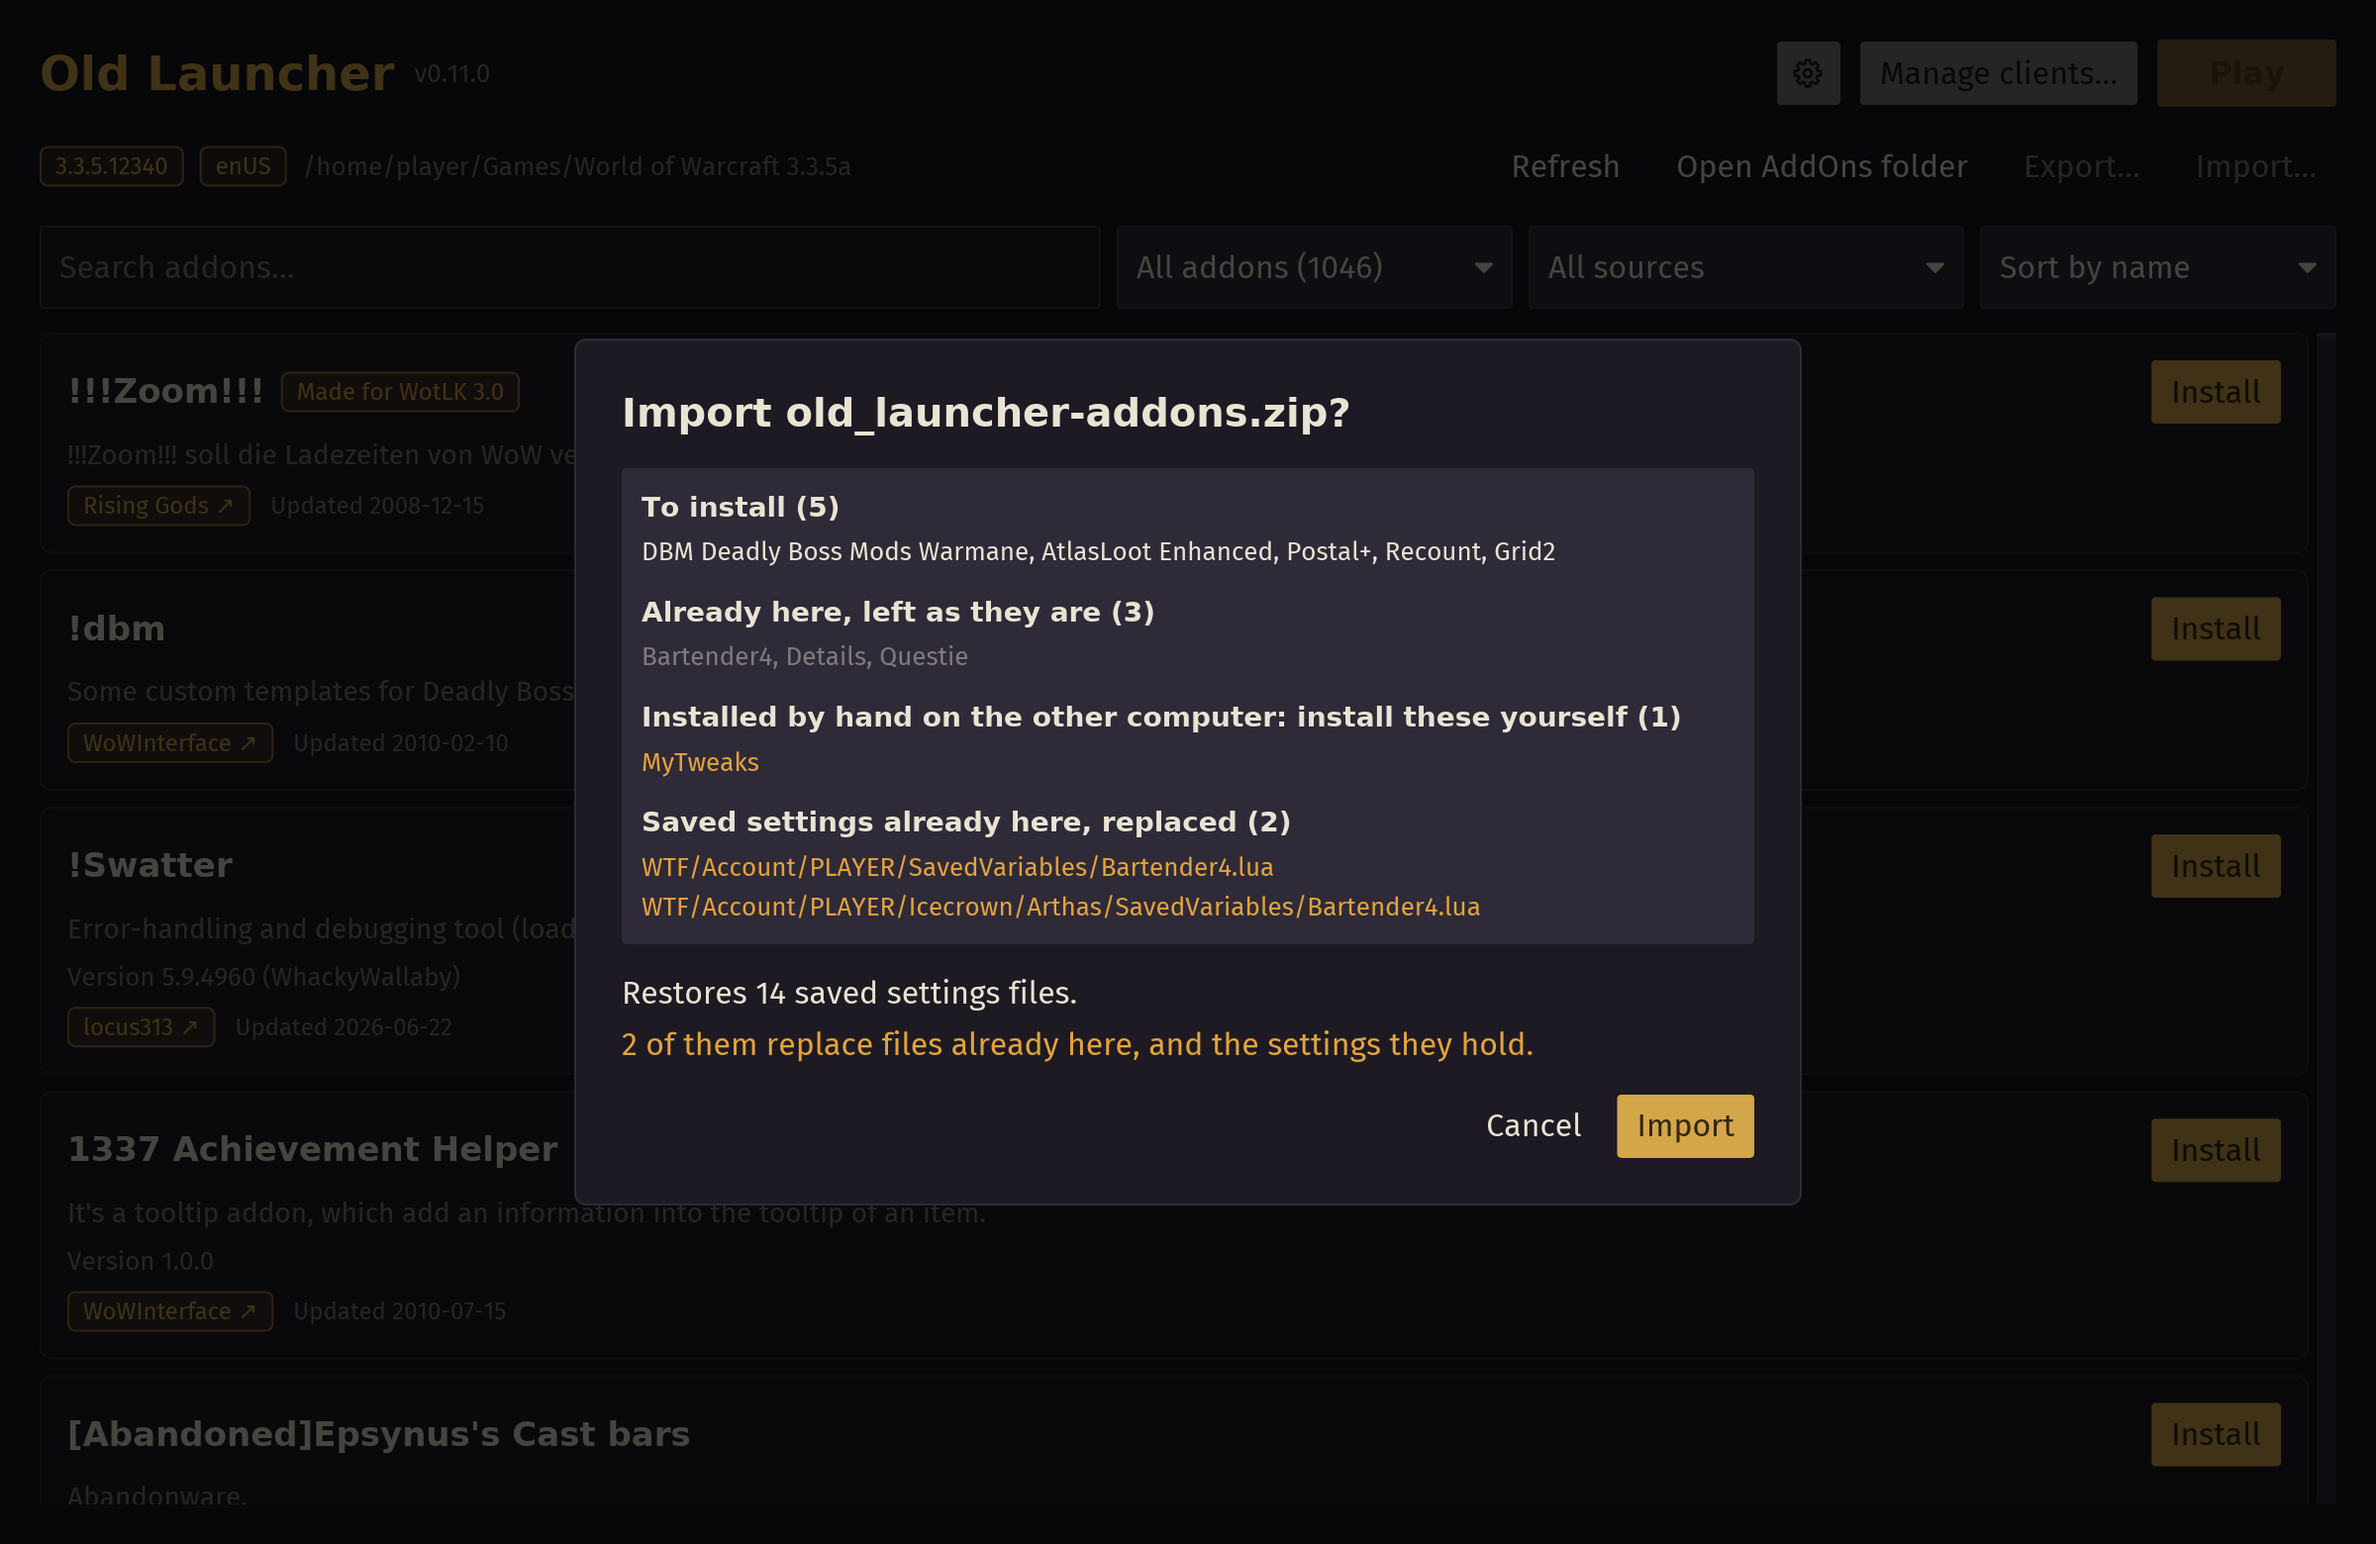
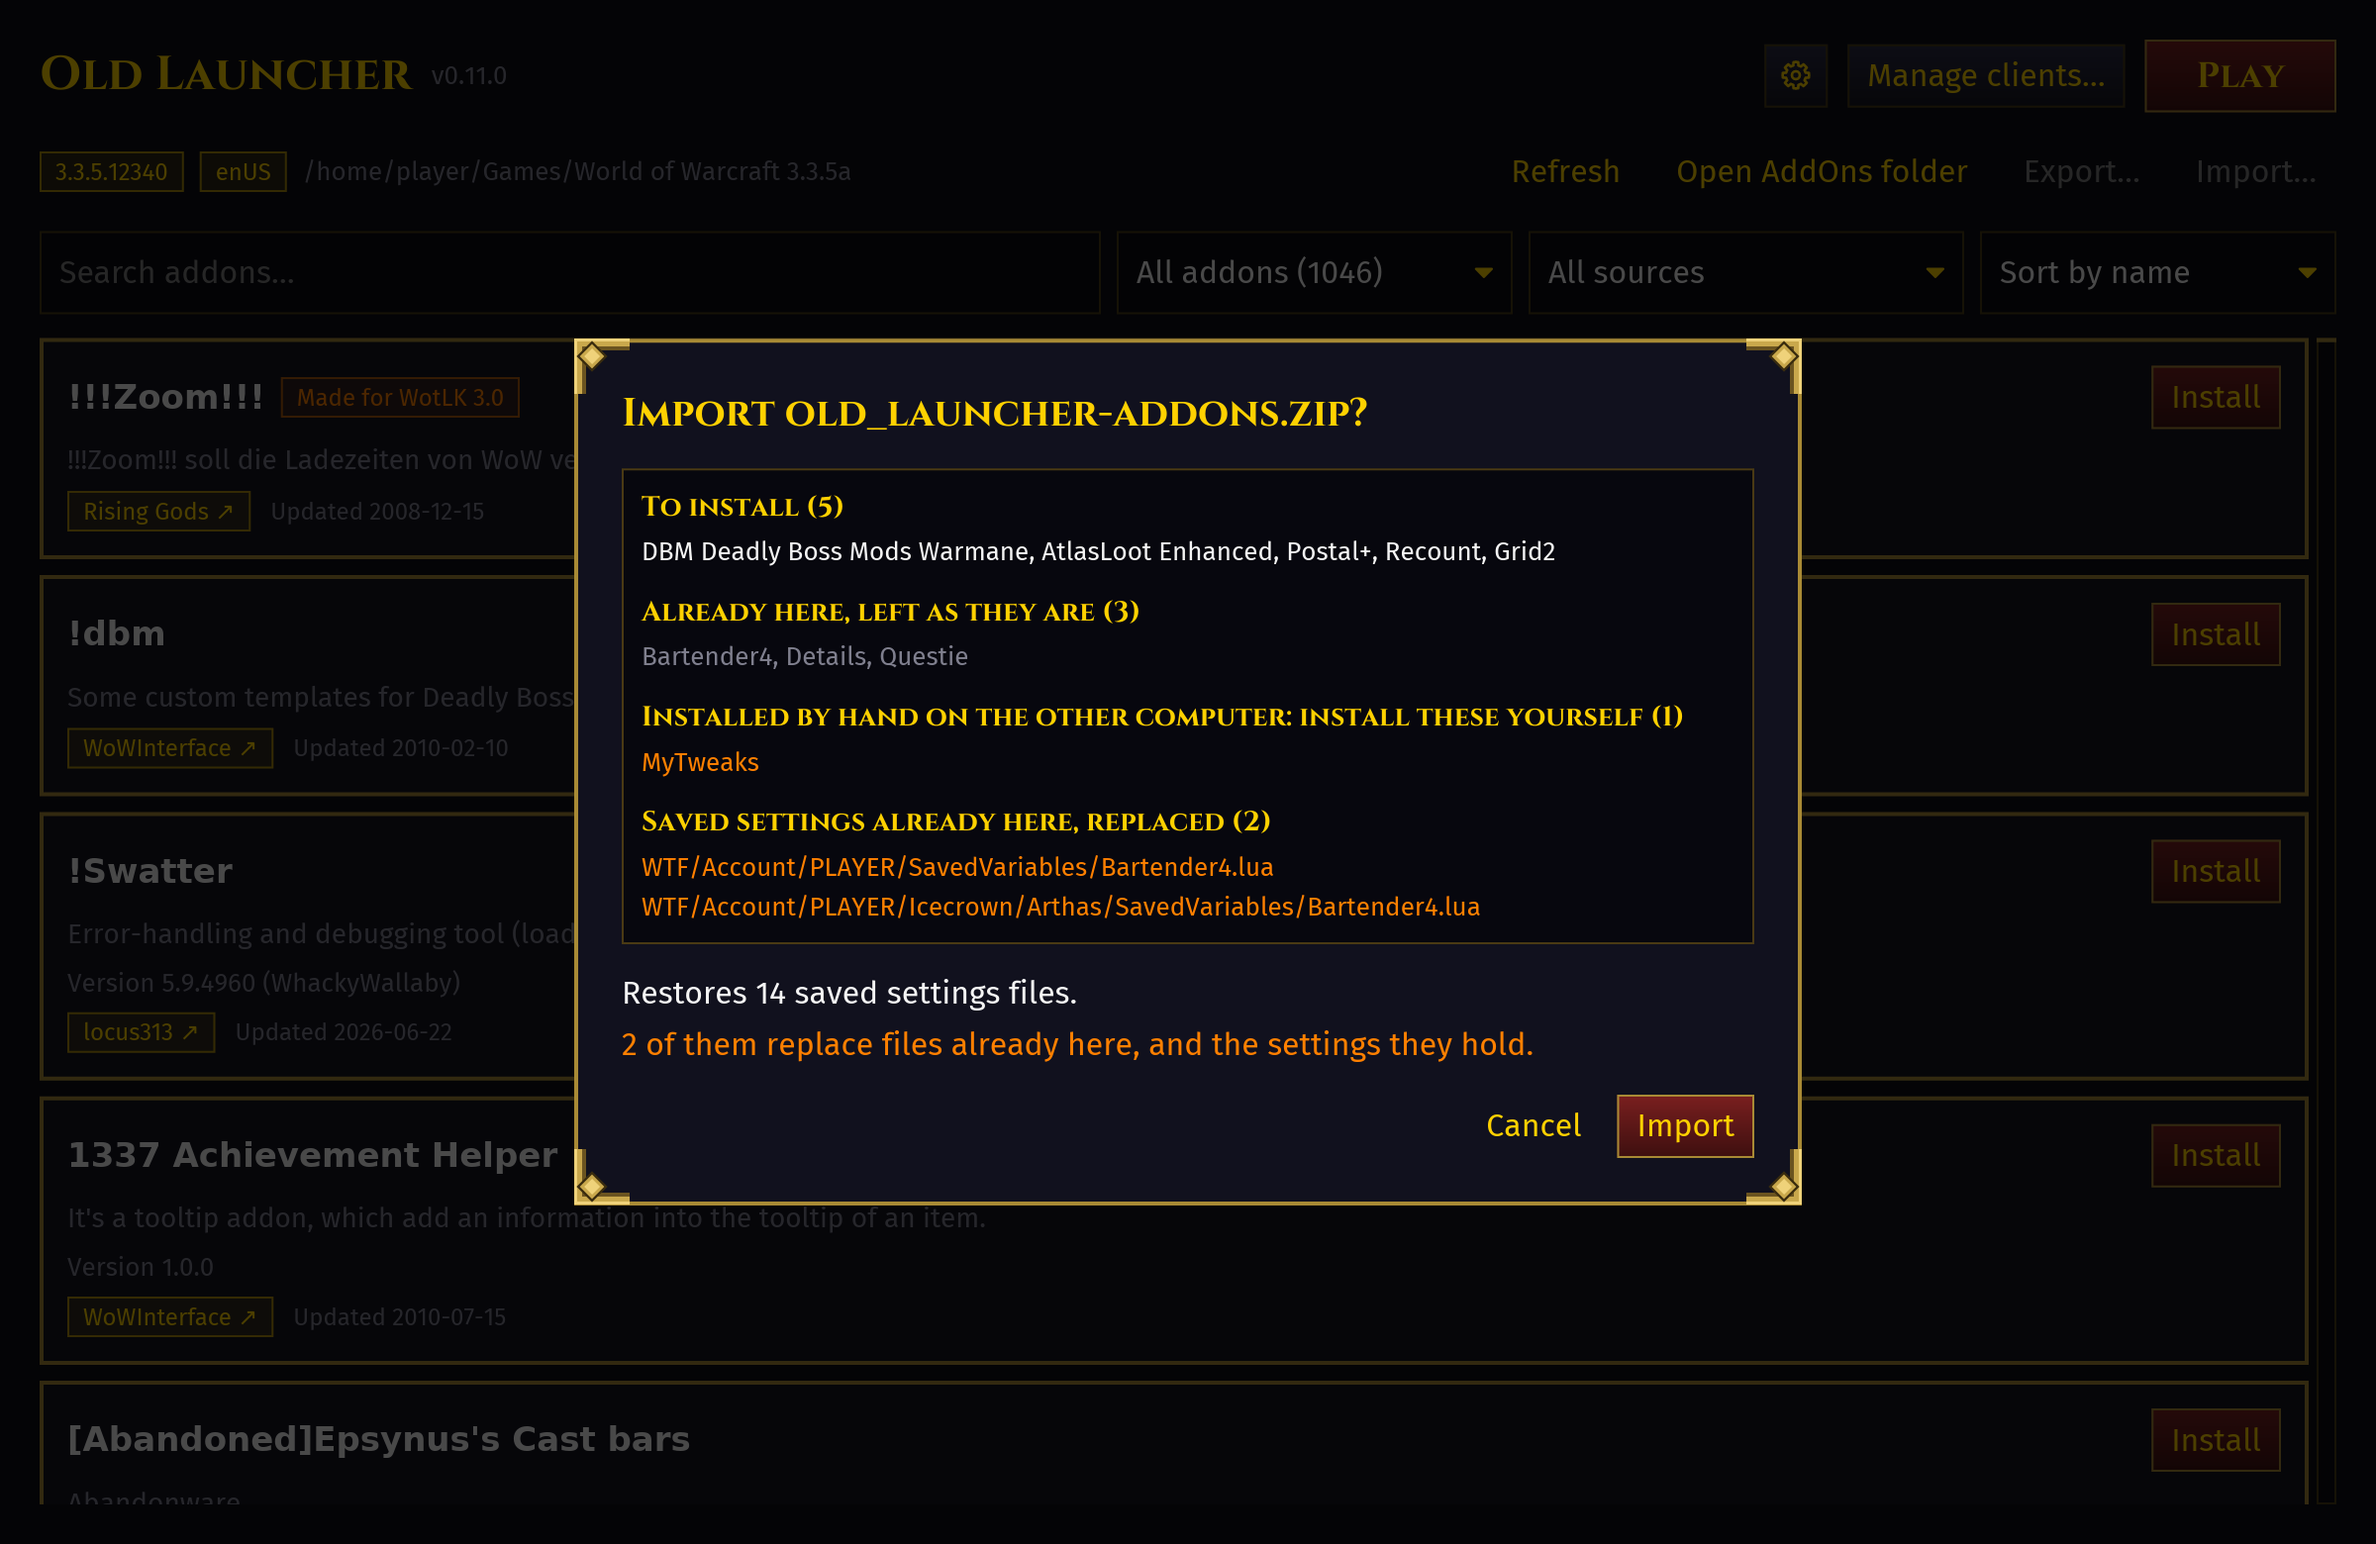
Finish the game's look: the Play button, the first-run form, the docs
Play is the login screen's red-and-gold button, in the title's capitals;
the first-run form gets the dialogs' corners; the demo client of the
screenshots has its mods looked at, so Play shows live; DEVELOPMENT.md
says how the look is made and what of the game's it leaves alone, and
the plan is marked built. The screenshots are rendered again.

diff --git a/src/lib.rs b/src/lib.rs
@@ -1085,9 +1085,12 @@ impl App {
                 .map(|banner| banner.map(Message::Download));
 
             return style::modal(
-                column![downloading, center(setup.view().map(Message::Setup))]
-                    .spacing(14)
-                    .padding(20),
+                column![
+                    downloading,
+                    center(style::ornamented(setup.view().map(Message::Setup)))
+                ]
+                .spacing(14)
+                .padding(20),
                 dialog,
                 on_blur,
             )
@@ -1158,7 +1161,8 @@ impl App {
                     Some(game::Phase::SettingUp) => "Setting up…",
                     Some(game::Phase::Running) => "Game running",
                 })
-                .font(style::BOLD),
+                .font(style::TITLE)
+                .size(18),
             )
             .padding([6, 26])
             .style(style::primary)

diff --git a/src/screenshots.rs b/src/screenshots.rs
@@ -151,6 +151,13 @@ fn screenshots() {
         installation: installation.clone(),
         snapshot: Some(snapshot),
     };
+    // Its mods looked at, none there: the game may start.
+    let _ = app.update(Message::Clients(clients::Message::Mods(
+        clients::mods::Message::Found(
+            installation.root().to_path_buf(),
+            clients::mods::Seen::default(),
+        ),
+    )));
 
     let shoot = |app: &App, name: &str| {
         let mut ui = iced_test::simulator::Simulator::with_size(

diff --git a/DEVELOPMENT.md b/DEVELOPMENT.md
@@ -497,6 +497,24 @@ podman run --rm -v "$PWD:/src:ro" -v old_launcher-target:/target \
 
 The launcher says what it does on stderr; `RUST_LOG=old_launcher=debug` says more.
 
+## The look
+
+The launcher is drawn the way the game draws its own interface, as far
+as its colors and shapes go (`src/style.rs`; the plan is
+`docs/plans/wotlk-look.md`): white text on near-black navy, headings in
+gold capitals, square frames with a gold edge and, on dialogs, a gold
+bracket at each corner, shaded red-and-gold panel buttons, sunk
+gold-edged fields, blue-black tooltips, and the item-quality colors for
+the badges (uncommon green, rare blue, legendary orange, poor grey).
+Nothing is Blizzard's: the textures and fonts of the game are licensed,
+so the corners and icons are the launcher's own SVGs in `assets/`, and
+the headings are set in Cinzel, bundled under the SIL Open Font License
+(`assets/fonts/`), the body in iced's own Fira Sans. The fonts are loaded
+when the window starts and by the screenshots' simulator, so every system
+draws the same thing. The SVGs' handles are made once (`style::Art`), so
+the renderer finds each drawing in its cache without hashing the file
+again each frame.
+
 ## Releasing
 
 Pushes are only checked. A release is a push to `main` that changes the

diff --git a/docs/plans/wotlk-look.md b/docs/plans/wotlk-look.md
@@ -1,7 +1,10 @@
 # A look like the game's
 
-Status: planned on 2026-10-26, not started. Names refer to the code as it
-is at 0.11.0.
+Status: built on 2026-10-26, after 0.11.0, as planned below, with these
+calls made: Cinzel for titles and Fira Sans for the body; the badges in
+the item-quality colors; square corners with ornaments; all four phases.
+The screenshots' renderer (tiny-skia) doesn't turn an SVG, so each corner
+is its own file. DEVELOPMENT.md ("The look") says how it is.
 
 ## The ask
 
